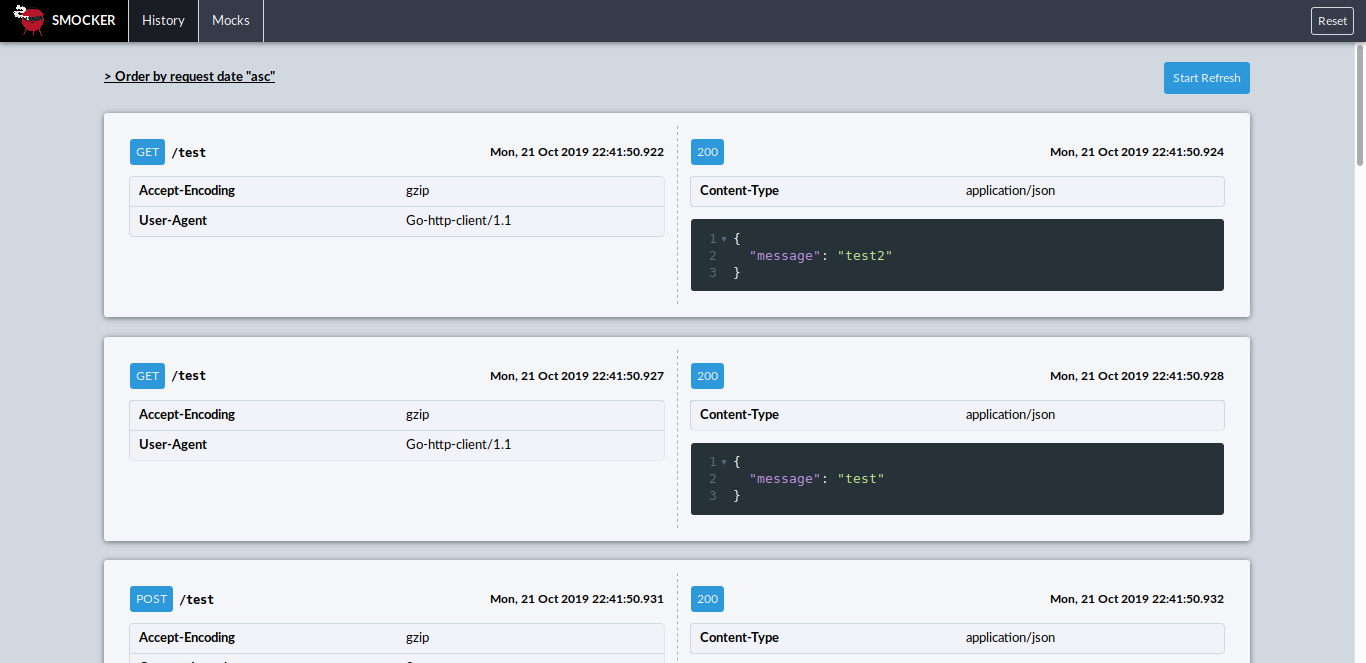
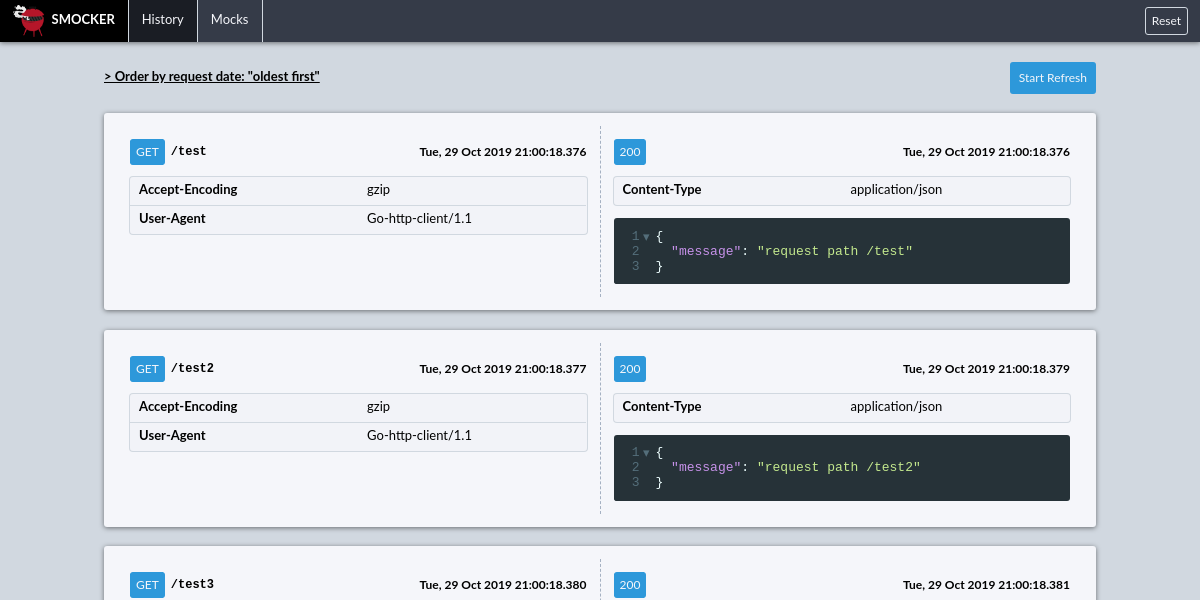
docs: script to regenerate screenshots

diff --git a/docs/refresh-screenshots.js b/docs/refresh-screenshots.js
@@ -1,0 +1,23 @@
+const puppeteer = require("puppeteer");
+const path = require("path");
+
+(async () => {
+  const browser = await puppeteer.launch();
+  const page = await browser.newPage();
+  page.setViewport({
+    width: 1200,
+    height: 600
+  });
+
+  await page.goto("http://localhost:8081/pages/history");
+  await page.waitFor(3000);
+  await page.screenshot({
+    path: path.join(__dirname, "screenshot-history.png")
+  });
+
+  await page.goto("http://localhost:8081/pages/mocks");
+  await page.waitFor(3000);
+  await page.screenshot({ path: path.join(__dirname, "screenshot-mocks.png") });
+
+  await browser.close();
+})();

diff --git a/README.md b/README.md
@@ -61,14 +61,9 @@ curl localhost:8081/version
 
 smocker exposes a configuration user interface. You can access it in your web browser on http://localhost:8081/.
 
-<details>
-  <summary>Screenshots</summary>
-
 ![History](docs/screenshot-history.png)
 
 ![Mocks](docs/screenshot-mocks.png)
-
-</details>
 
 ## Usage
 
@@ -146,7 +141,8 @@ The backend is written in Go. You can use the following commands to manage the d
 - `make lint`: run static analysis on the code
 - `make format`: automatically format the backend code
 - `make test`: execute unit tests
-- `make test-integration`: execute integration tests (require the backend to be started)
+- `make test-integration`: execute integration tests (require the backend to be started on the default ports)
+- `make docs`: regenerate documentation assets (require the whole application to be started on the default ports)
 
 ### Frontend
 
